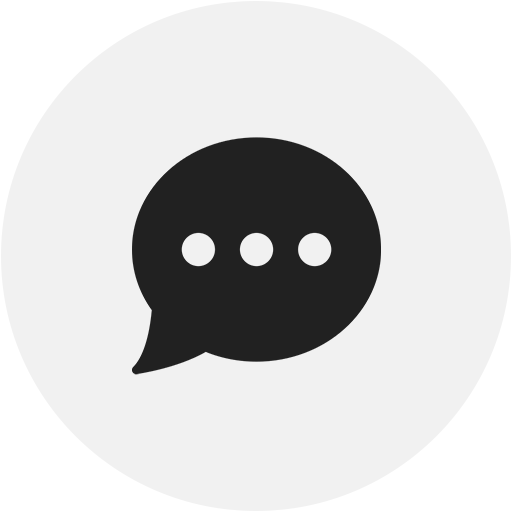
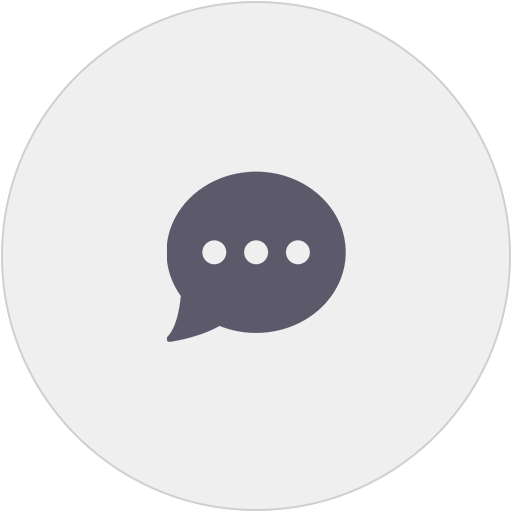
Update add prospect page
-add icon

diff --git a/platforms/browser/www/css/index.css b/platforms/browser/www/css/index.css
@@ -465,13 +465,12 @@ border-right: 0;
       border: none;
 }
 #formwrapper{
-  margin-top: 55px;
+  margin-top: 105px;
   position: relative;
 }
 #topheaderform{
   position: fixed;
   width: 100%;
-  background: #fff;
   left: 0;
   height: 50px;
   z-index: 999;
@@ -479,12 +478,15 @@ border-right: 0;
 }
 #add_contact{
   height: 100%;
-  background: #fff;
 }
 #topheaderform ul{
   padding-left: 0;
-  height: 40px;
-  padding-top: 40px;
+  height: 120px;
+  padding-top: 70px;
+  display: block;
+  overflow: visible;
+  border-bottom: 1px solid #eee;
+      background: #fff;
 }
 #topheaderform ul li{
   list-style: none;
@@ -493,13 +495,21 @@ border-right: 0;
   padding: 10px 0;
       text-align: center;
 }
+#topheaderform .custom_btn{
+  padding: 0;
+background: none;
+border: none;
+text-align: left;
+margin: 11px 0 0 20px;
+}
 #topheaderform ul li .ui-input-btn{
   background: #fff;
   box-shadow: none;
   border: 0;
   padding: 0;
-  font-weight: 400;
+  font-weight: bold;
   color:#222;
+    padding: 5px;
 }
 .header{
   position: fixed;
@@ -507,6 +517,7 @@ border-right: 0;
 }
 #add_contact .ui-content{
   height: 100%;
+      background: #fff;
 }
 /*prospect*/
 
@@ -701,6 +712,7 @@ font-weight: bold;
 }
 #today{
   background: #fff;
+  padding-top: 70px;
 }
 
 #prospect .ui-panel-wrapper, .ui-panel-wrapper{
@@ -715,14 +727,13 @@ top: 0;
 width: 100%;
 }
 #send-email-form #formwrapper{
-  margin-top: 40px;
+  margin-top: 0px;
 }
 .ui-mobile .ui-page-active{
       background: #fff !important;
 }
 #dynamic_dialog .ui-dialog-contain{
   box-shadow: none;
-border: 1px solid #d0d0d0;
 border-radius: 5px;
 }
 #dynamic_dialog #contact-email-composer-btn{
@@ -777,6 +788,7 @@ border-radius: 25px;
 display: block;
 width: 350px;
 overflow: auto;
+    margin-top: 350px;
 }
 .buttonwrapper .align-left{
     width: 42%;
@@ -808,5 +820,9 @@ border: none;
   width: 100%;
 }
 .iconscontacts span{
-  margin-bottom: 10px;
+  margin: 12px 0;
+  display: block;
+}
+#email_dialog #dialog_content{
+  height: 710px;
 }

diff --git a/platforms/browser/www/index.html b/platforms/browser/www/index.html
@@ -306,7 +306,7 @@
                 <form id="add-contact-form" method="POST" action="#"  data-ajax="false">
                   <div id="topheaderform">
                     <ul>
-                      <li></li>
+                      <li style="padding: 0;"><a href="#prospect" data-mini="true" class="ui-btn custom_btn"><img src="images/backarrow.png" width="10"></a></li>
                       <li><input id="new-contact-btn" type="button" data-mini="true" value="New Contact"></li>
                       <li><input id="add-contact-btn" type="button" data-mini="true" class="custom_btn" name="" value="Save"></li>
                     </ul>
@@ -345,8 +345,8 @@
                           <option value="202">Do Not Pipeline</option>
                       </select>
                     </div>
-                    <div class="formfield">
-                      <input type="text" id="referral_first_name" name="referral_first_name" placeholder="Referral First Name" value="">
+                    <div class="formfield" style="margin: 18px 0 0 0;">
+                      <input type="text" id="referral_first_name" name="referral_first_name" placeholder="Referral First Name" value="" style="margin:0;">
                     </div>
                     <div class="formfield">
                       <input type="text" id="referral_last_name" name="referral_last_name" placeholder="Referral Last Name" value="">

diff --git a/www/css/index.css b/www/css/index.css
@@ -465,7 +465,7 @@ border-right: 0;
       border: none;
 }
 #formwrapper{
-  margin-top: 85px;
+  margin-top: 105px;
   position: relative;
 }
 #topheaderform{
@@ -481,8 +481,8 @@ border-right: 0;
 }
 #topheaderform ul{
   padding-left: 0;
-  height: 105px;
-  padding-top: 55px;
+  height: 120px;
+  padding-top: 70px;
   display: block;
   overflow: visible;
   border-bottom: 1px solid #eee;
@@ -712,6 +712,7 @@ font-weight: bold;
 }
 #today{
   background: #fff;
+  padding-top: 70px;
 }
 
 #prospect .ui-panel-wrapper, .ui-panel-wrapper{
